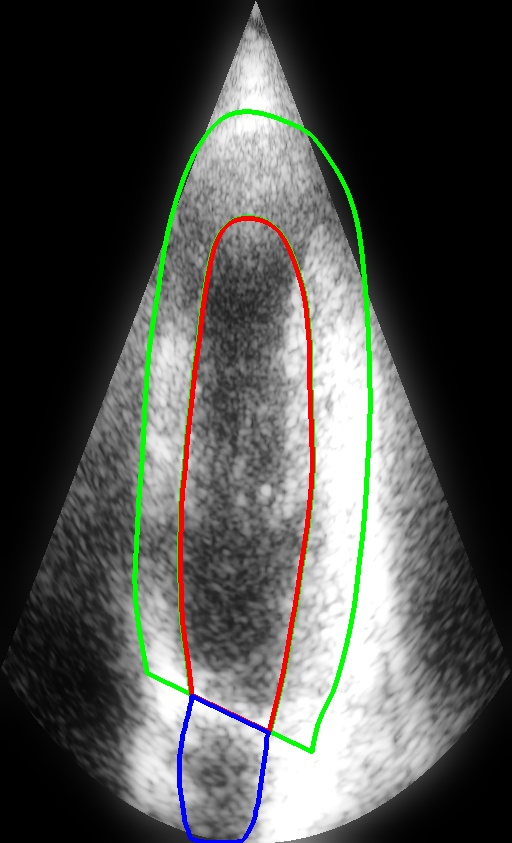
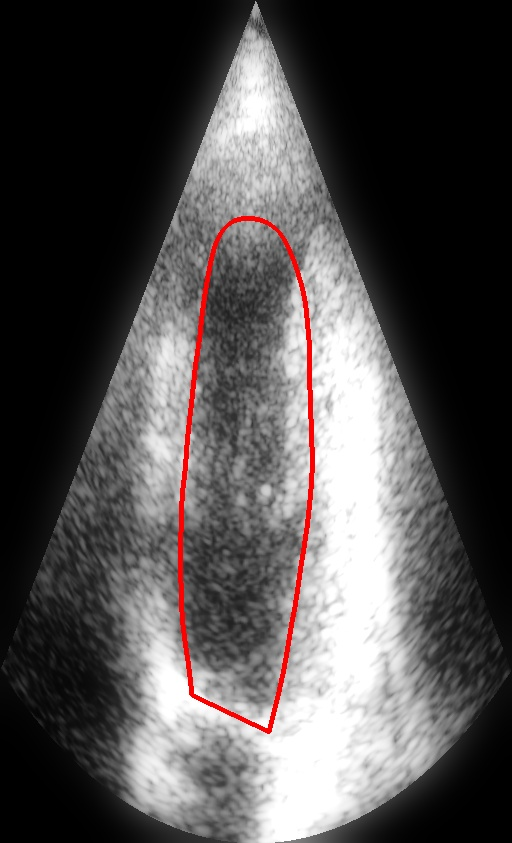
3d interpolation file

diff --git a/step06_volume_reconstruction.py b/step06_volume_reconstruction.py
@@ -31,9 +31,8 @@ pixel_spacing_4 = image_4.GetSpacing()
 
 # 0. Load the variables from the pickle file
 patient_idx = 20
-channel_number = 4
+# channel_number = 4
 out_file_name_2 = "outputs\pickles\patient{0:04d}_{1}_CH_evolution_variables.pkl".format(patient_idx, 2)
-
 out_file_name_4 = "outputs\pickles\patient{0:04d}_{1}_CH_evolution_variables.pkl".format(patient_idx, 4)
 
 with open(out_file_name_2, "rb") as f:
@@ -82,8 +81,8 @@ if plot_on_img == True:
     cv2.drawContours(I_out_4, c1_4, -1, (0, 0, 255), linewidth) # red
 
     # Save the canvas with the contours in red
-    cv2.imwrite('outputs\snakes\patinet{0:04d}_{1}CH_contour_label.jpg'.format(patient_idx, channel_number), I_out_2)
-    cv2.imwrite('outputs\snakes\patinet{0:04d}_{1}CH_contour_label.jpg'.format(patient_idx, channel_number), I_out_4)
+    cv2.imwrite('outputs\snakes\patinet{0:04d}_{1}CH_contour_label.jpg'.format(patient_idx, 2), I_out_2)
+    cv2.imwrite('outputs\snakes\patinet{0:04d}_{1}CH_contour_label.jpg'.format(patient_idx, 4), I_out_4)
 
     # Display the canvas with the contour in red color
     cv2.imshow('Contour Image', I_out_2)
@@ -157,13 +156,13 @@ L = current_max_2 if (current_max_2 > current_max_4) else current_max_4
 V = (math.pi*L/6) * (math.pi*area_2/math.pi*current_max_2)*(2*area_4/math.pi*current_max_4)
 print(V)
 
-plot_seq_samples = False
-if plot_seq_samples == True:
-    fig, axs = plt.subplots(1, int(len(I_seq_2)/2), figsize=(25, 25))
-    axs[0].imshow(I_out_2, cmap = 'gray')
+# plot_seq_samples = False
+# if plot_seq_samples == True:
+#     fig, axs = plt.subplots(1, int(len(I_seq_2)/2), figsize=(25, 25))
+#     axs[0].imshow(I_out_2, cmap = 'gray')
 
-    for i in range(1, int(len(I_seq_2)/2)):
-        axs[i].imshow(I_seq_2[i], cmap='gray')
-        axs[i].axis('off')
+#     for i in range(1, int(len(I_seq_2)/2)):
+#         axs[i].imshow(I_seq_2[i], cmap='gray')
+#         axs[i].axis('off')
     
-    plt.show()
+#     plt.show()
